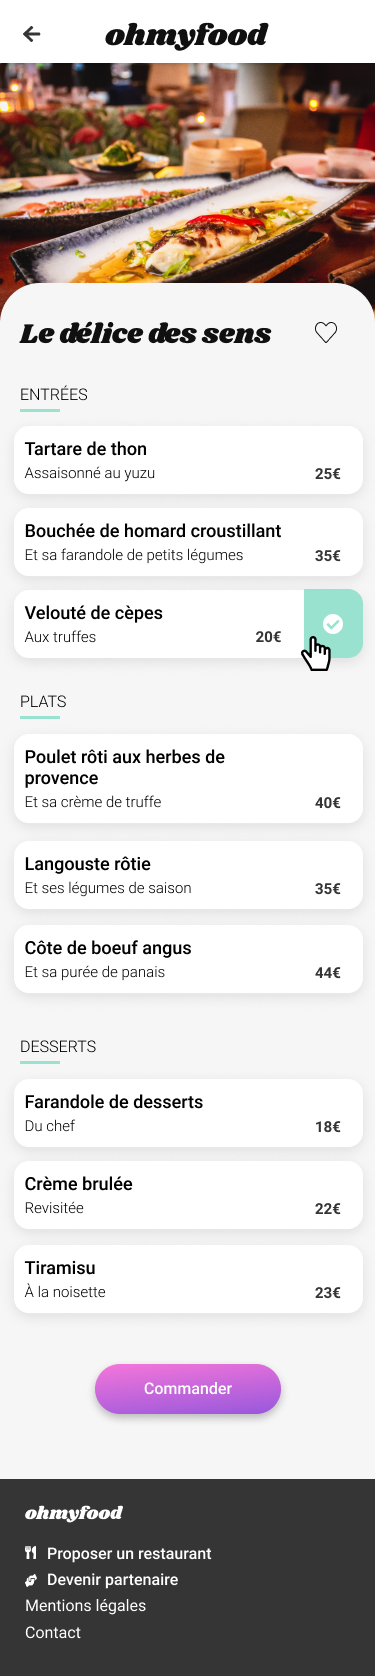
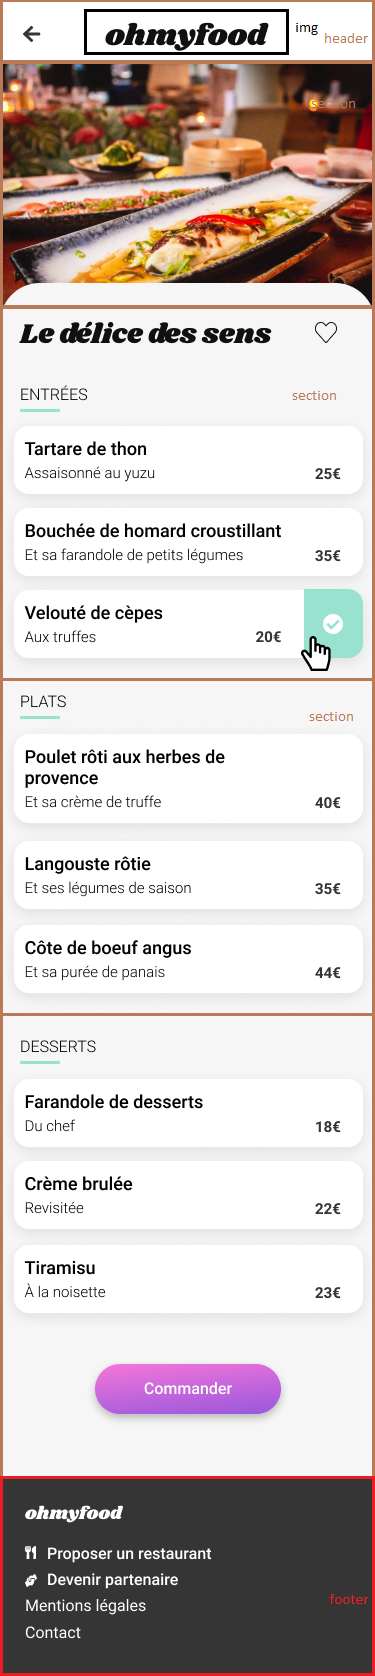
css add header

diff --git a/Ohmyfood.html b/Ohmyfood.html
@@ -13,7 +13,82 @@
          @import url('https://fonts.googleapis.com/css2?family=Raleway:wght@500&display=swap');
       </style>
     </head>
-    <body>
+    <header>
+        <span><img src="Maquettes Ohmyfood/images\logo/ohmyfood.png" alt="logo"></span>
+        <div> <i class="fas fa-map-marker-alt"></i> <p>Paris, BelleVille</p></div>
+    </header>
+    <section class="headertitle">
+        <h1>Réservez le menu qui vous convient</h1>
+        <h2 class="headerlittletitle">Découvrez des restaurants d'exception, séléctionnés par nos soins.</h2>
+        <article>
+            <a href="Bottonrestaurants">
+            <h3>Explorer nos restaurants</h3>
+            </a>
+        </article>
+    </section>
+    <section class="listmenu">
+        <h2>Fonctionnement</h2>
+        <div>
+            <ul>
+                <li><a href="chooserestau"> <p> 1</p> <p><i class="fas fa-mobile-alt"></i></p>
+                    <p>Choisissez un restaurant</p></a></li>
+
+                <li><a href="menu"> <p>2</p> <p><i class="fas fa-list"></i></p>
+                <p>Composez votre menu</p></a></li>
+                
+                <li><a href="tasterestau"> <p>3</p> <p></p>
+                <p>Dégustez au restaurant</p></a></li>
+            </ul>
+        </div>
+    </section>
+    <main>
+        <h2>Restaurant</h2>
+        <section class="ItemRestau"> 
+            <a class="itemclick" href="la_palette_du_goût.html">
+            <article>
+             <img href="Maquettes Ohmyfood\images\restaurants\jay-wennington-N_Y88TWmGwA-unsplash.jpg" alt="La palette du goût">
+             <h3>La palette du goût</h3>
+             <p>Ménilmontant</p>
+             <p><i class="far fa-heart"></i></p>
+            </article></a>
+
+            <a class="itemclick" href="la_note_enchantee.html">
+            <article>
+            <img href="Maquettes Ohmyfood\images\restaurants\stil-u2Lp8tXIcjw-unsplash.jpg" alt="La note enchantée">
+            <h3>La note enchantée</h3>
+            <p>Charonne</p>
+            </article></a>
+            <p><i class="far fa-heart"></i></p>
+        </article></a>
+
+        <a class="itemclick" href="a_la_française.html">
+            <article>
+                <img href="Maquettes Ohmyfood\images\restaurants\toa-heftiba-DQKerTsQwi0-unsplash.jpg" alt="a la française">
+                <h3>A la française</h3>
+                <p>Cité Rouge</p>
+                <p><i class="far fa-heart"></i></p>
+        </article></a>
+
+        <a class="itemclick" href="le_delice_des_sens.html">
+            <article>
+                <img href="C:\Users\yakin\OneDrive\Bureau\P3_ocr\Maquettes Ohmyfood\images\restaurants\louis-hansel-shotsoflouis-qNBGVyOCY8Q-unsplash.jpg" alt="Le délice des sens">
+                <h3>Le délice des sens</h3>
+                <p>Folie-Méricourt</p>
+                <p><i class="far fa-heart"></i></p>
+            </article></a>
+        </section>
+    </main>
+    <footer>
+        <div>
+            <img src="Maquettes Ohmyfood/images\logo/ohmyfood.png" alt="logo1">
+        <ul>
+            <li><p><i class="fas fa-utensils"></i></p><p>Proposer un restaurant</p></li>
+            <li><i class="fas fa-hands-helping"></i><p>proposer un réstaurant</p></li>
+            <li> Mentions légales</li>
+            <li>Contact</li>
+         </ul>
+        </div>
+    </footer>
 
     </body>
 </html>

diff --git a/Ohmyfood.css b/Ohmyfood.css
@@ -1,0 +1,120 @@
+@font-face {
+	font-family: 'Raleway', sans-serif;
+	src: url('https://fonts.googleapis.com/css2?family=Raleway:wght@500&display=swap');
+}
+
+* {
+	margin: 0;
+	font-weight: normal;
+	font-family: 'Raleway', sans-serif;
+	box-sizing: border-box;
+}
+
+header span{
+	border-bottom:2px solid #cfcfcf;
+	background-color: white;
+	box-shadow:1px 05px 10px #d5d5d5;
+	justify-content: center;
+	padding-left: 40%;
+	padding-right: 35%;
+}
+header div{
+    display: flex;
+    flex-direction: row;
+    justify-content: center;
+    background-color: #eaeaea;
+	height: 100px;
+	font-size:25px;
+	padding-top: 30px;
+	
+}
+
+.headertitle{
+	background-color: #f6f6f6;
+	height: 300px;
+	padding-top: 20px;
+}
+h1{
+font-size: 40px;
+font-weight: bold;
+text-align: center;
+}
+
+.headerlittletitle{
+	text-align: center;
+}
+
+.headertitle article{
+ border: 1px solid transparent;
+ background: rgb(174,95,219);
+ background: linear-gradient(354deg, 
+rgba(174,95,219,1) 10%,
+rgba(233,114,218,1) 73%);
+ text-align: center;
+ border-radius: 50px 50px 50px 50px;
+ box-shadow:6px 6px 10px  #c8c8c8;
+ height: 80px;
+ padding-top:20px;
+ margin: 80px 700px 0 700px;
+}
+
+
+.headertitle article a{
+text-decoration: none;
+color:white;
+font-weight: bold;
+font-size: 25px;
+}
+
+/*LIste de fonctionement*/
+.listmenu{
+padding-left: 50px;	
+padding-bottom:20px ;
+}
+
+.listmenu div ul {
+	display: flex;
+	list-style: none;
+	
+}
+.listmenu li a{
+	text-decoration: none;
+	display: flex;
+    flex-direction: row;
+	border: 1px solid #f6f6f6;
+	background-color: #f6f6f6;
+	border-radius: 50px 50px 50px 50px;
+	height: 50px;
+	padding-top: 15px;
+}
+.listmenu li a p{
+    text-align: justify;
+	font-weight: bold;
+	color:black;
+}
+
+
+/*Restaurant*/
+
+main{
+	padding-left:50px ;
+	flex-wrap: wrap;
+	
+}
+
+.ItemRestau{
+ display: flex;
+}
+
+.itemclick{
+	border-width: 2px;
+	margin-bottom: 10px;
+	margin-right: 20px;
+	border: 1px solid transparent;
+	border-radius: 20px 20px 20px 20px;
+	box-shadow: 6px 6px 10px #ececec;
+	background-color: #ffffff;
+	width: 90%;
+	height: 220px;
+	padding: 02px;
+}

diff --git a/la_palette_du_goût.html b/la_palette_du_goût.html
@@ -1,0 +1,20 @@
+<!DOCTYPE html>
+<html>
+    <head>
+        <meta charset="UTF-8"/>
+        <title>La palette du goût</title>
+        <script src="https://kit.fontawesome.com/db3753d039.js" crossorigin="anonymous"></script>
+      <link rel="Stylesheet" href="la_palette_du_gout.css" />
+      <link rel="preconnect" href="https://fonts.googleapis.com">
+      <link rel="preconnect" href="https://fonts.gstatic.com" crossorigin>
+      <link href="https://fonts.googleapis.com/css2?family=Raleway:wght@500&display=swap" rel="stylesheet">
+      <style>
+         @import url('https://fonts.googleapis.com/css2?family=Raleway:wght@500&display=swap');
+      </style>
+    </head>
+    <body>
+        <header>
+            <img src="Maquettes Ohmyfood/images\logo/ohmyfood.png" alt="logo">
+        </header>
+    </body>
+</html>

diff --git a/le_delice_des_sens.html b/le_delice_des_sens.html
@@ -1,0 +1,15 @@
+<!DOCTYPE html>
+<html>
+    <head>
+        <meta charset="UTF-8"/>
+        <title>Le délice des sens</title>
+        <script src="https://kit.fontawesome.com/db3753d039.js" crossorigin="anonymous"></script>
+      <link rel="Stylesheet" href="" />
+      <link rel="preconnect" href="https://fonts.googleapis.com">
+      <link rel="preconnect" href="https://fonts.gstatic.com" crossorigin>
+      <link href="https://fonts.googleapis.com/css2?family=Raleway:wght@500&display=swap" rel="stylesheet">
+      <style>
+         @import url('https://fonts.googleapis.com/css2?family=Raleway:wght@500&display=swap');
+      </style>
+    </head>
+</html>

diff --git a/la_note_enchantee.html b/la_note_enchantee.html
@@ -1,0 +1,15 @@
+<!DOCTYPE html>
+<html>
+    <head>
+        <meta charset="UTF-8"/>
+        <title>La note enchantée</title>
+        <script src="https://kit.fontawesome.com/db3753d039.js" crossorigin="anonymous"></script>
+      <link rel="Stylesheet" href="" />
+      <link rel="preconnect" href="https://fonts.googleapis.com">
+      <link rel="preconnect" href="https://fonts.gstatic.com" crossorigin>
+      <link href="https://fonts.googleapis.com/css2?family=Raleway:wght@500&display=swap" rel="stylesheet">
+      <style>
+         @import url('https://fonts.googleapis.com/css2?family=Raleway:wght@500&display=swap');
+      </style>
+    </head>
+</html>

diff --git a/a_la_française.html b/a_la_française.html
@@ -1,0 +1,15 @@
+<!DOCTYPE html>
+<html>
+    <head>
+        <meta charset="UTF-8"/>
+        <title>A la française</title>
+        <script src="https://kit.fontawesome.com/db3753d039.js" crossorigin="anonymous"></script>
+      <link rel="Stylesheet" href="" />
+      <link rel="preconnect" href="https://fonts.googleapis.com">
+      <link rel="preconnect" href="https://fonts.gstatic.com" crossorigin>
+      <link href="https://fonts.googleapis.com/css2?family=Raleway:wght@500&display=swap" rel="stylesheet">
+      <style>
+         @import url('https://fonts.googleapis.com/css2?family=Raleway:wght@500&display=swap');
+      </style>
+    </head>
+</html>
